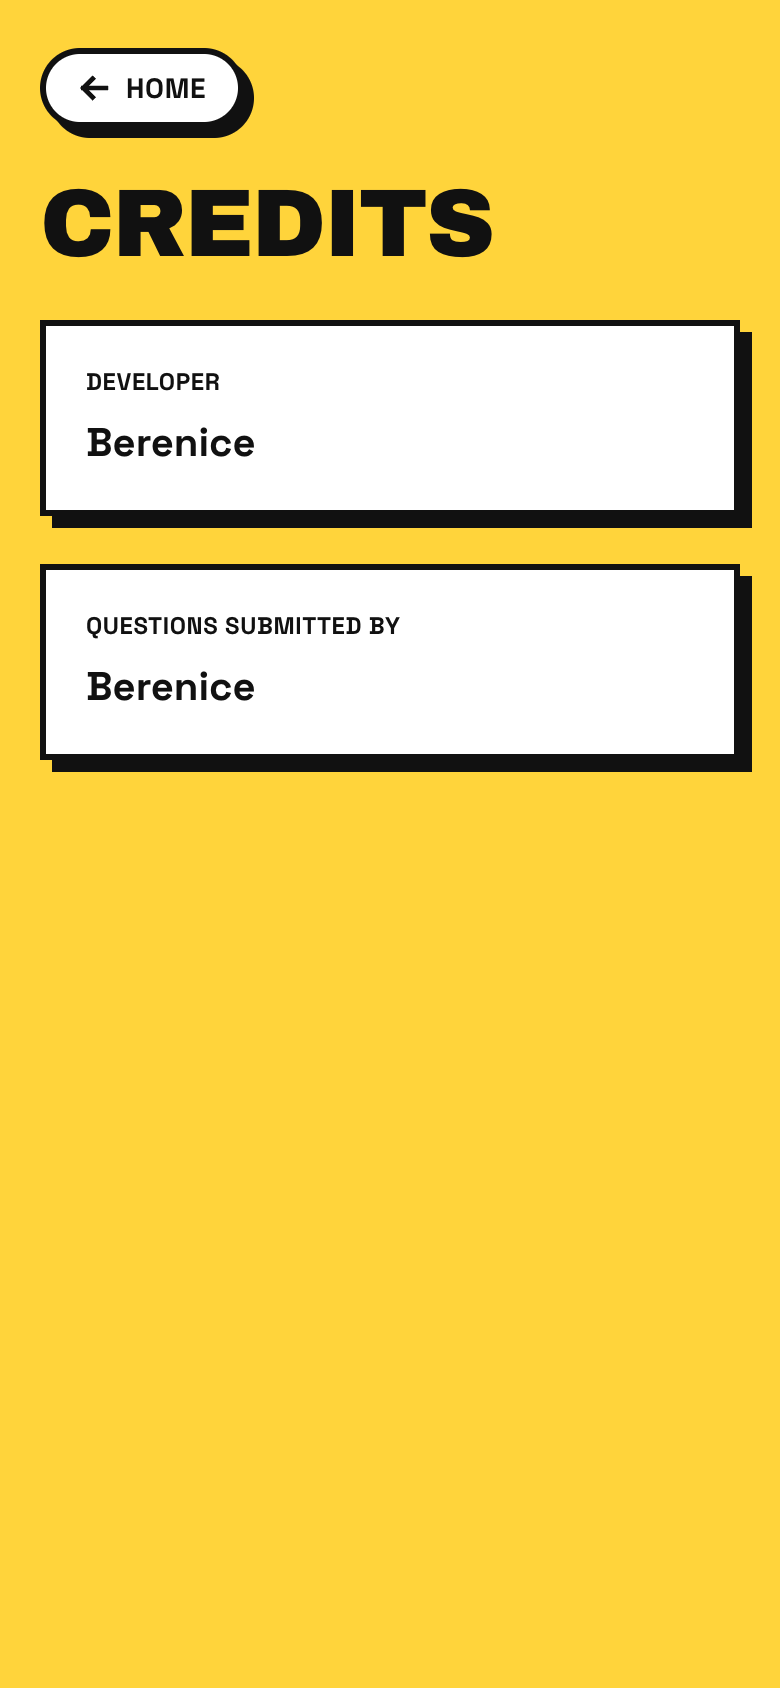
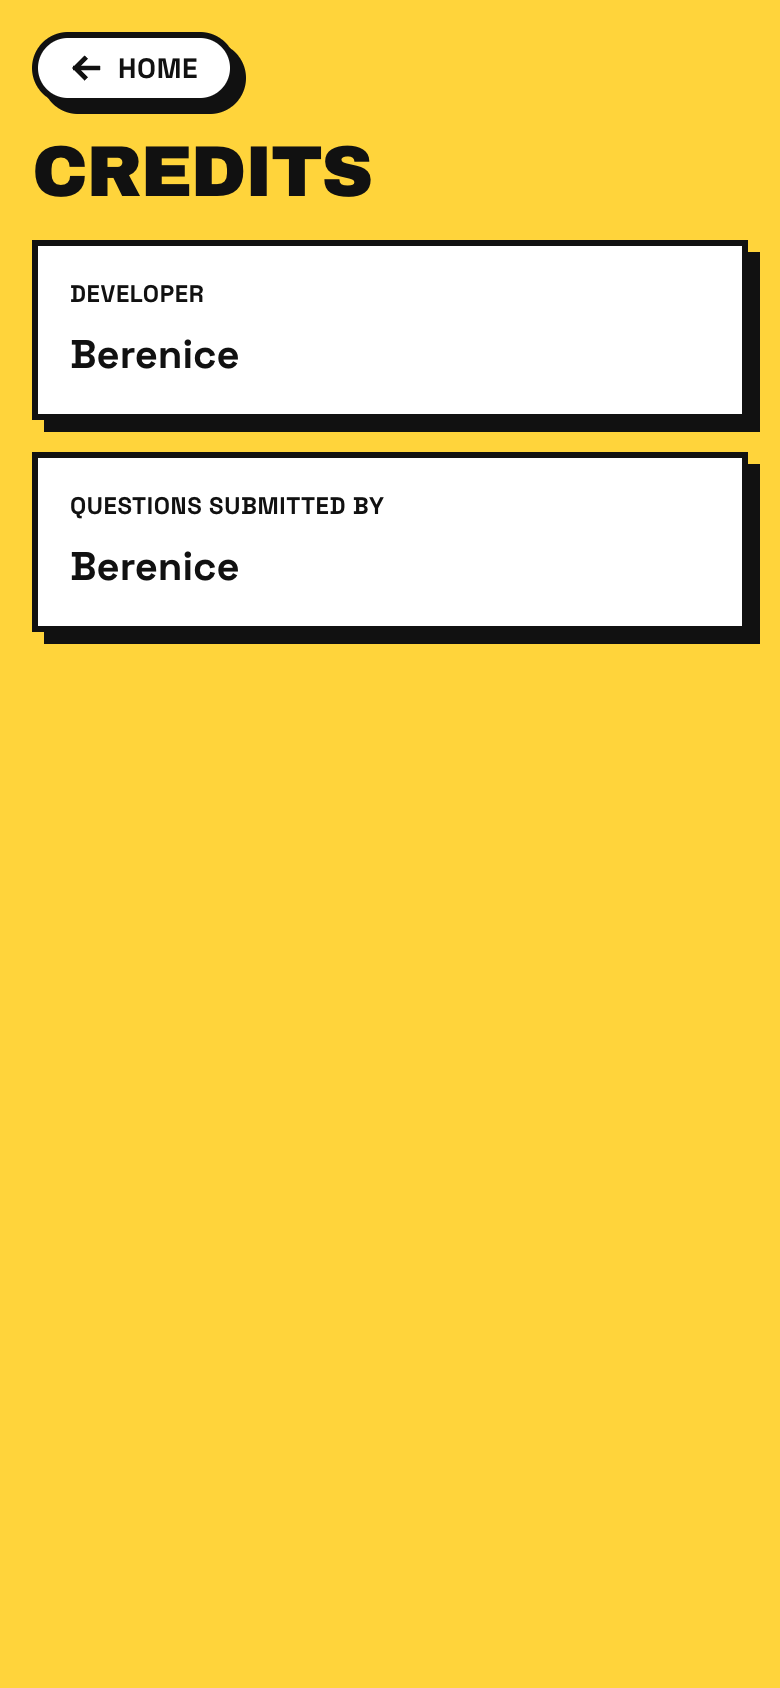
Refresh the mobile screenshots and describe the compact mobile layout

Changed region(s): [[0.0308, 0.0, 0.9846, 0.4621]]

diff --git a/README.md b/README.md
@@ -21,7 +21,7 @@ Players pick a difficulty, answer a shuffled set of questions, learn something f
 - **Public submission form** with validation and a honeypot field against bots. Submissions are stored as pending.
 - **Admin page** (password protected) to edit a submission with a live preview, then save, approve or reject it.
 - **Credits page** built from the credit names of approved questions. Anonymous questions are left out.
-- **Responsive**: works on phones and desktops.
+- **Responsive**: a compact layout on phones, designed so most screens fit without vertical scrolling (the submission form is the exception), and a roomier two-column layout on desktop.
 
 ## Screenshots
 
